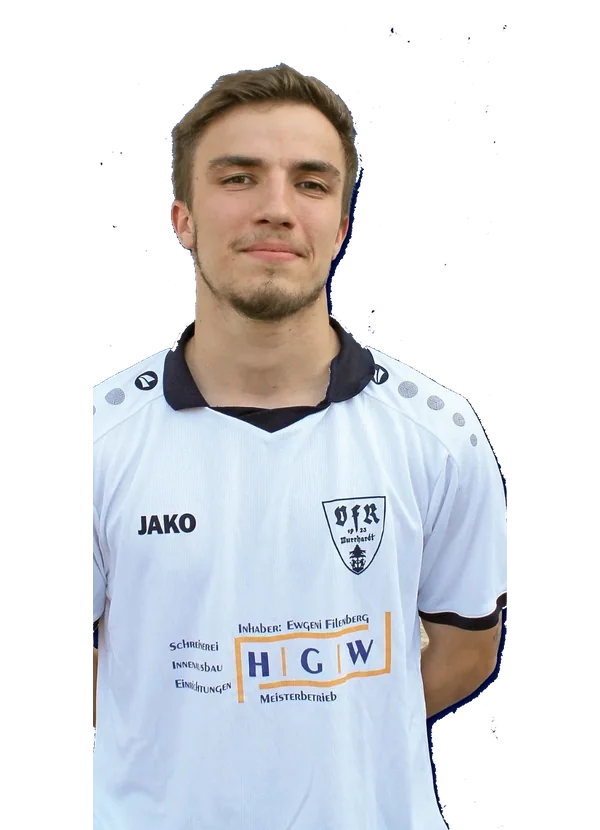
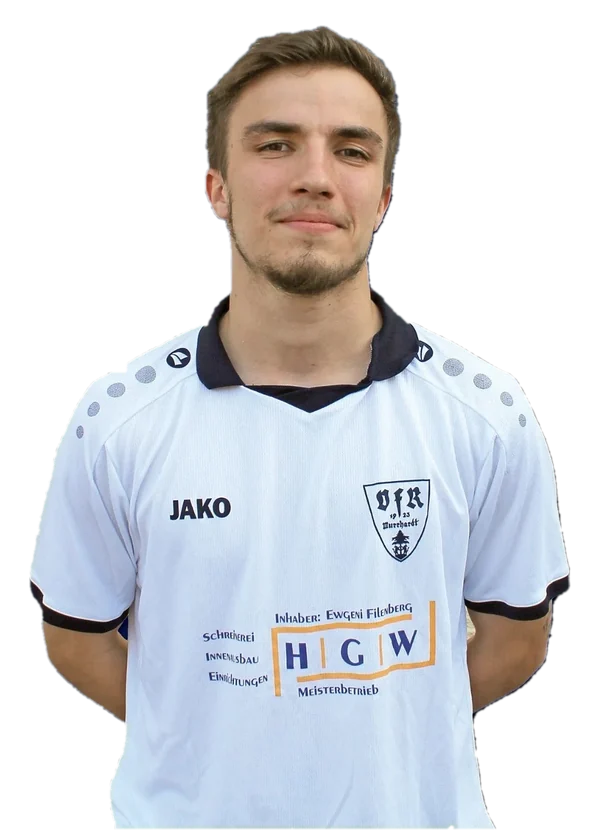
Foto Marlon Buehler neu freigestellt (beide Arme, saubere Kanten)
Bild-Cache-Version erhoeht, damit das neue Foto ueberall ankommt.

Claude-Session: https://claude.ai/code/session_017dBRmQveGXbcTcP84disEj

Changed region(s): [[0.03, 0.0301, 0.96, 1.0], [0.36, 0.6627, 0.39, 0.7229], [0.6, 0.512, 0.63, 0.5422]]

diff --git a/sw.js b/sw.js
@@ -3,9 +3,9 @@
    Bilder (Spielerfotos, Wappen): nur einmal laden, danach immer aus dem Cache – kein erneutes Herunterladen.
    Geänderte Fotos bekommen eine neue Adresse (?v=…), alte Einträge werden beim Versionswechsel aufgeräumt.
    Datenbank-Anfragen (REST/Auth) werden nie zwischengespeichert. */
-const VERSION = 'kl-v3.9.3';
+const VERSION = 'kl-v3.9.4';
 const APP = 'app-' + VERSION;
-const IMG = 'img-v2';
+const IMG = 'img-v3';
 const SHELL = [
   './', 'index.html', 'manifest.webmanifest',
   'css/fonts.css', 'css/tokens.css', 'css/base.css', 'css/live.css', 'css/booking.css', 'css/views.css', 'css/theme.css', 'css/admin.css',
